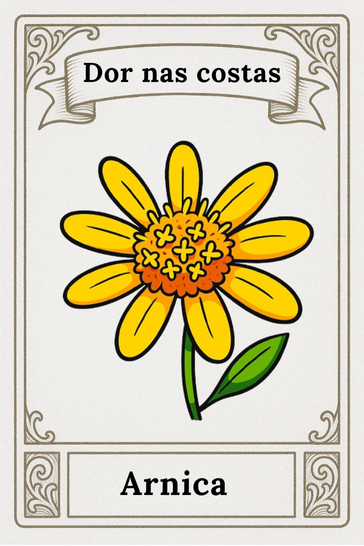
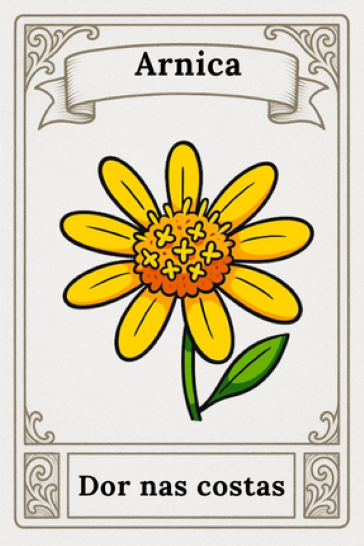
versão nova, com alterações

diff --git a/index.html b/index.html
@@ -1,12 +1,12 @@
-<!DOCTYPE html>
+<!DOCTYPE html>
 <html lang="pt-br">
 <head>
     <meta charset="UTF-8">
     <title>Botanic - O Jogo da Bruxa Herbal</title>
-    <link href="https://fonts.googleapis.com/css2?family=Merriweather:wght@400;700&family=Quicksand:wght@400;600&display=swap" rel="stylesheet">
+    <link href="https://fonts.googleapis.com/css2?family=MedievalSharp&display=swap" rel="stylesheet">
     <style>
-        body { margin: 0; background: #2d5016; display: flex; justify-content: center; align-items: center; height: 100vh; overflow: hidden; }
-        #game-container { border-radius: 15px; box-shadow: 0 10px 30px rgba(0,0,0,0.4); border: 3px solid #8a6d3b; }
+        body { margin: 0; background: #000000; display: flex; justify-content: center; align-items: center; min-height: 100vh; overflow: hidden; font-family: 'MedievalSharp', fantasy; }
+        #game-container { width: 100vw; height: 100vh; overflow: hidden; }
     </style>
 </head>
 <body>
@@ -16,29 +16,39 @@
     <script src="https://cdn.jsdelivr.net/npm/phaser@3.55.2/dist/phaser.js"></script>
 
     <script>
+        const GAME_WIDTH = 1920;
+        const GAME_HEIGHT = 1080;
+        const CENTER_X = GAME_WIDTH / 2;
+        const CENTER_Y = GAME_HEIGHT / 2;
+        const GAME_FONT = 'MedievalSharp, fantasy';
+        const GOLD = '#ffd86b';
+        const DARK_GOLD = '#d4af37';
+        const BROWN_STROKE = '#5d4037';
+        const DARK_PANEL = 0x1f1114;
+
         // Dados das Ervas
         const ERVAS_DATA = [
             {nome:'cabacinha', imagem:'cabacinha.png', cura:'sinusite', descricao:'Alivia sinusite'},
-            {nome:'erva_doce', imagem:'erva_doce.png', cura:'colica', descricao:'Alivia cólicas'},
+            {nome:'erva_doce', imagem:'erva_doce.png', cura:'colica', descricao:'Alivia cÃ³licas'},
             {nome:'babosa', imagem:'babosa.png', cura:'queloides', descricao:'Trata queloides'},
             {nome:'gengibre', imagem:'gengibre.png', cura:'tosse', descricao:'Combate tosse'},
             {nome:'arnica', imagem:'arnica.png', cura:'dor_costas', descricao:'Cura Dor nas Costas'},
-            {nome:'romã', imagem:'roma.png', cura:'dor_garganta', descricao:'Trata dor de garganta'},
+            {nome:'romÃ£', imagem:'roma.png', cura:'dor_garganta', descricao:'Trata dor de garganta'},
             {nome:'boldo', imagem:'boldo.png', cura:'enjoo', descricao:'Alivia enjoos'},
-            {nome:'cidreira', imagem:'cidreira.png', cura:'insonia', descricao:'Combate insônia'},
-            {nome:'vinagreira', imagem:'vinagreira.png', cura:'irritacao', descricao:'Trata irritações'}
+            {nome:'cidreira', imagem:'cidreira.png', cura:'insonia', descricao:'Combate insÃ´nia'},
+            {nome:'vinagreira', imagem:'vinagreira.png', cura:'irritacao', descricao:'Trata irritaÃ§Ãµes'}
         ];
 
         // Dados dos Problemas/Pacientes
         const PROBLEMAS_DATA = [
             {nome:'sinusite', imagem:'sinusite.png', curaNecessaria:'sinusite', descricao:'Paciente com sinusite'},
-            {nome:'colica', imagem:'colica.png', curaNecessaria:'colica', descricao:'Paciente com cólica'},
+            {nome:'colica', imagem:'colica.png', curaNecessaria:'colica', descricao:'Paciente com cÃ³lica'},
             {nome:'queloides', imagem:'queloides.png', curaNecessaria:'queloides', descricao:'Paciente com queloides'},
             {nome:'tosse', imagem:'tosse.png', curaNecessaria:'tosse', descricao:'Paciente com tosse'},
             {nome:'dor_costas', imagem:'dor_costas.png', curaNecessaria:'dor_costas', descricao:'Paciente com Dor nas Costas'},
             {nome:'dor_garganta', imagem:'dor_garganta.png', curaNecessaria:'dor_garganta', descricao:'Paciente com dor de garganta'},
             {nome:'enjoo', imagem:'enjoo.png', curaNecessaria:'enjoo', descricao:'Paciente enjoado'},
-            {nome:'insonia', imagem:'insonia.png', curaNecessaria:'insonia', descricao:'Paciente com insônia'},
+            {nome:'insonia', imagem:'insonia.png', curaNecessaria:'insonia', descricao:'Paciente com insÃ´nia'},
             {nome:'irritacao', imagem:'irritado.png', curaNecessaria:'irritacao', descricao:'Paciente irritado'}
         ];
 
@@ -47,32 +57,38 @@
             constructor() { super('tESTE'); }
             
             preload() {
-                // Carregamento da imagem da primeira tela e do botão
+                // Carregamento da imagem da primeira tela
                 this.load.image('tela_inicial', './assets/StartScene.png');
-                this.load.image('btn-normal', './assets/button.png');
             }
             
             create() {
                 // Fundo reserva
-                this.add.rectangle(400, 300, 800, 600, 0x2d5016);
+                this.add.rectangle(CENTER_X, CENTER_Y, GAME_WIDTH, GAME_HEIGHT, 0x000000);
                 
-                // Exibição da imagem da tela inicial
-                const bg = this.add.image(400, 300, 'tela_inicial').setDisplaySize(800, 600);
+                // ExibiÃ§Ã£o da imagem da tela inicial
+                const bg = this.add.image(CENTER_X, CENTER_Y, 'tela_inicial').setDisplaySize(GAME_WIDTH, GAME_HEIGHT);
                 
-                // Título
-                this.add.text(400, 150, 'BOTANIC', { 
-                    fontSize: '80px', fill: '#f5f5dc', fontFamily: 'Merriweather, serif', stroke: '#5d4037', strokeThickness: 8 
-                }).setOrigin(0.5);
-                
-                // Botão e interação
-                const btn = this.add.image(400, 450, 'btn-normal').setScale(0.5).setInteractive({ useHandCursor: true });
-                const btnText = this.add.text(400, 450, 'INICIAR JOGO', { 
-                    fontSize: '24px', fill: '#ffffff' 
-                }).setOrigin(0.5);
+                // Texto de interaÃ§Ã£o
+                const btnText = this.add.text(CENTER_X, 930, 'iniciar jogo', { 
+                    fontSize: '64px',
+                    fill: GOLD,
+                    fontFamily: GAME_FONT,
+                    stroke: BROWN_STROKE,
+                    strokeThickness: 5
+                }).setOrigin(0.5).setInteractive({ useHandCursor: true });
+
+                this.tweens.add({
+                    targets: btnText,
+                    alpha: 0.55,
+                    scale: 1.06,
+                    duration: 850,
+                    ease: 'Sine.easeInOut',
+                    yoyo: true,
+                    repeat: -1
+                });
                 
                 // Comando para iniciar a cena do jogo
-                btn.on('pointerdown', () => this.scene.start('GameScene'));
-                btnText.setInteractive({ useHandCursor: true }).on('pointerdown', () => this.scene.start('GameScene'));
+                btnText.on('pointerdown', () => this.scene.start('GameScene'));
             }
         }
 
@@ -93,26 +109,26 @@
                 const basePath = 'assets/';
                 PROBLEMAS_DATA.forEach(p => this.load.image(p.nome, basePath + p.imagem));
                 ERVAS_DATA.forEach(e => this.load.image(e.nome, basePath + e.imagem));
-                this.load.image('fundo_tabuleiro', basePath + 'fundo_tabuleiro.png');
+                this.load.image('fundo_tela', basePath + 'fundo_tela.png');
+                this.load.image('bruxa', basePath + 'bruxa.png');
+                this.load.image('icone_pontuacao', basePath + 'PONTUACAO.png');
+                this.load.image('icone_vida', basePath + 'VIDA.png');
+                this.load.image('icone_tempo', basePath + 'TEMPO.png');
             }
             
             create() {
-                this.add.image(400, 300, 'fundo_tabuleiro').setDisplaySize(800, 600);
+                this.add.image(CENTER_X, CENTER_Y, 'fundo_tela').setDisplaySize(GAME_WIDTH, GAME_HEIGHT);
                 
-                // Interface de Texto
-                this.scoreText = this.add.text(650, 20, 'Pontuação: ' + this.pontuacao, { fontSize: '16px', fill: '#f5f5dc' });
-                this.vidasText = this.add.text(650, 40, 'Vidas: ' + this.vidas, { fontSize: '16px', fill: '#d4a76a' });
-                this.tempoText = this.add.text(650, 60, 'Tempo: ' + this.tempoRestante, { fontSize: '16px', fill: '#a5d6a7' });
+                this.add.rectangle(CENTER_X, CENTER_Y, GAME_WIDTH, GAME_HEIGHT, 0x000000, 0.14);
+                this.add.image(1510, 520, 'bruxa').setScale(0.42).setDepth(0);
+                this.criarInterfaceFixa();
 
-                // Lógica de Drag (Arraste)
+                // LÃ³gica de Drag (Arraste)
                 this.input.on('drag', (pointer, gameObject, dragX, dragY) => {
                     if (!this.podeJogar) return;
+                    gameObject.setDepth(20);
                     gameObject.x = dragX; 
                     gameObject.y = dragY;
-                    if (gameObject.data) {
-                        gameObject.data.get('text').x = dragX;
-                        gameObject.data.get('descText').x = dragX;
-                    }
                 });
 
                 this.input.on('drop', this.handleCardDrop, this);
@@ -122,9 +138,62 @@
                 this.timerEvent = this.time.addEvent({ delay: 1000, callback: this.atualizarTempo, callbackScope: this, loop: true });
             }
 
+            criarPainel(x, y, largura, altura, cor, alpha, borda = 0xc7923e) {
+                const painel = this.add.graphics();
+                painel.fillStyle(cor, alpha);
+                painel.lineStyle(4, borda, 1);
+                painel.fillRoundedRect(x - largura / 2, y - altura / 2, largura, altura, 14);
+                painel.strokeRoundedRect(x - largura / 2, y - altura / 2, largura, altura, 14);
+                return painel;
+            }
+
+            criarInterfaceFixa() {
+                this.criarPainel(178, 74, 300, 96, DARK_PANEL, 0.9);
+                this.criarPainel(178, 184, 300, 96, DARK_PANEL, 0.9);
+                this.criarPainel(178, 294, 300, 96, DARK_PANEL, 0.9);
+
+                this.estrelaPontuacao = this.add.image(72, 80, 'icone_pontuacao').setDisplaySize(60, 86);
+                this.add.text(122, 42, 'PONTUAÇÃO', { fontSize: '21px', fill: '#ffffff', fontFamily: GAME_FONT, stroke: '#000000', strokeThickness: 2 }).setOrigin(0, 0.5);
+                this.scoreText = this.add.text(122, 80, '0', { fontSize: '44px', fill: GOLD, fontFamily: GAME_FONT, stroke: BROWN_STROKE, strokeThickness: 3 }).setOrigin(0, 0.5);
+
+                this.vidaIcons = [];
+                this.add.image(66, 184, 'icone_vida').setDisplaySize(48, 44);
+                this.add.text(122, 150, 'VIDAS', { fontSize: '21px', fill: '#ffffff', fontFamily: GAME_FONT, stroke: '#000000', strokeThickness: 2 }).setOrigin(0, 0.5);
+                for (let i = 0; i < 3; i++) {
+                    this.vidaIcons.push(this.add.image(124 + i * 58, 192, 'icone_vida').setDisplaySize(46, 42));
+                }
+
+                this.add.image(74, 304, 'icone_tempo').setDisplaySize(34, 66);
+                this.add.text(122, 260, 'TEMPO', { fontSize: '21px', fill: '#ffffff', fontFamily: GAME_FONT, stroke: '#000000', strokeThickness: 2 }).setOrigin(0, 0.5);
+                this.tempoText = this.add.text(122, 304, this.tempoRestante + ' s', { fontSize: '44px', fill: GOLD, fontFamily: GAME_FONT, stroke: BROWN_STROKE, strokeThickness: 3 }).setOrigin(0, 0.5);
+            }
+
+            atualizarVidasHud() {
+                this.vidaIcons.forEach((icone, index) => {
+                    icone.setVisible(index < this.vidas);
+                });
+            }
+
+            animarEstrelaPontuacao() {
+                this.tweens.add({
+                    targets: this.estrelaPontuacao,
+                    scaleX: 1.35,
+                    scaleY: 1.35,
+                    alpha: 0.65,
+                    duration: 130,
+                    ease: 'Sine.easeOut',
+                    yoyo: true,
+                    repeat: 1,
+                    onComplete: () => {
+                        this.estrelaPontuacao.setScale(1);
+                        this.estrelaPontuacao.setAlpha(1);
+                        this.estrelaPontuacao.setDisplaySize(60, 86);
+                    }
+                });
+            }
+
             proximoProblema() {
-                if (this.pacienteSprite) this.pacienteSprite.destroy();
-                if (this.txtProb) this.txtProb.destroy();
+                if (this.pacienteCard) this.pacienteCard.destroy();
 
                 let nomeAnterior = this.problemaAtual ? this.problemaAtual.nome : null;
                 let novo;
@@ -135,19 +204,21 @@
                 this.problemaAtual = novo;
                 this.gerarMaoComCura(this.problemaAtual.curaNecessaria);
                 
-                this.pacienteSprite = this.add.sprite(150, 200, this.problemaAtual.nome).setScale(0.5);
-                this.txtProb = this.add.text(400, 350, "CURA: " + this.problemaAtual.curaNecessaria.toUpperCase(), { fontSize: '24px', fill: '#a5d6a7' }).setOrigin(0.5);
+                this.pacienteCard = this.add.container(CENTER_X - 80, 470);
+                this.pacienteCard.setDepth(4);
+                const titulo = this.add.text(0, -265, 'PACIENTE', { fontSize: '52px', fill: GOLD, fontFamily: GAME_FONT, stroke: BROWN_STROKE, strokeThickness: 5 }).setOrigin(0.5);
+                const paciente = this.add.sprite(0, -45, this.problemaAtual.nome).setScale(0.88);
+                const label = this.add.text(0, 0, '', { fontSize: '36px', fill: GOLD, fontFamily: GAME_FONT, stroke: BROWN_STROKE, strokeThickness: 4 }).setOrigin(0.5);
+                const problema = this.add.text(0, 230, this.problemaAtual.curaNecessaria.toUpperCase(), { fontSize: '58px', fill: GOLD, fontFamily: GAME_FONT, stroke: BROWN_STROKE, strokeThickness: 5 }).setOrigin(0.5);
+                this.pacienteCard.add([titulo, paciente, label, problema]);
 
-                if (!this.dropZone) this.dropZone = this.add.zone(150, 200, 200, 200).setRectangleDropZone(200, 200);
+                if (!this.dropZone) this.dropZone = this.add.zone(CENTER_X - 80, 470, 420, 560).setRectangleDropZone(420, 560);
                 this.podeJogar = true;
             }
 
             gerarMaoComCura(curaObrigatoria) {
                 this.cartasNaMao.forEach(c => {
-                    if (c.sprite) c.sprite.destroy();
-                    if (c.text) c.text.destroy();
-                    if (c.descText) c.descText.destroy();
-                    if (c.fundo) c.fundo.destroy();
+                    if (c.card) c.card.destroy();
                 });
                 this.cartasNaMao = [];
 
@@ -156,15 +227,17 @@
                 const maoTotal = Phaser.Utils.Array.Shuffle([ervaCerta, ...outras]);
 
                 maoTotal.forEach((erva, index) => {
-                    const x = 150 + index * 125, y = 500;
-                    const fundo = this.add.rectangle(x, y, 110, 150, 0x1a3310).setStrokeStyle(2, 0x8a9b6e);
-                    const sprite = this.add.sprite(x, y - 20, erva.nome).setScale(0.3).setInteractive();
-                    const txt = this.add.text(x, y + 30, erva.cura.toUpperCase(), { fontSize: '12px', fill: '#fff' }).setOrigin(0.5);
-                    const desc = this.add.text(x, y + 50, erva.descricao, { fontSize: '10px', fill: '#ccc' }).setOrigin(0.5);
+                    const x = 500 + index * 245, y = 880;
+                    const card = this.add.container(x, y);
+                    const sprite = this.add.sprite(0, 0, erva.nome).setScale(0.56);
 
-                    this.input.setDraggable(sprite);
-                    sprite.setData({ erva, text: txt, descText: desc, fundo: fundo });
-                    this.cartasNaMao.push({ sprite, text: txt, descText: desc, fundo: fundo });
+                    card.add([sprite]);
+                    card.setSize(190, 270);
+                    card.setInteractive({ useHandCursor: true });
+                    card.setDepth(5);
+                    this.input.setDraggable(card);
+                    card.setData({ erva });
+                    this.cartasNaMao.push({ card });
                 });
             }
 
@@ -174,17 +247,19 @@
 
                 if (erva.cura === this.problemaAtual.curaNecessaria) {
                     this.pontuacao += 10;
-                    this.scoreText.setText('Pontuação: ' + this.pontuacao);
+                    this.scoreText.setText(String(this.pontuacao));
+                    this.animarEstrelaPontuacao();
                     this.podeJogar = false;
                     this.time.delayedCall(500, () => this.proximoProblema());
                 } else {
                     this.vidas--;
-                    this.vidasText.setText('Vidas: ' + this.vidas);
+                    this.atualizarVidasHud();
                     if (this.vidas <= 0) {
                         this.finalizarJogo(false);
                     } else {
                         cardSprite.x = cardSprite.input.dragStartX;
                         cardSprite.y = cardSprite.input.dragStartY;
+                        cardSprite.setDepth(5);
                     }
                 }
             }
@@ -193,7 +268,7 @@
                 if (!this.podeJogar) return;
                 if (this.tempoRestante > 0) {
                     this.tempoRestante--;
-                    this.tempoText.setText('Tempo: ' + this.tempoRestante);
+                    this.tempoText.setText(this.tempoRestante + ' s');
                 } else {
                     this.finalizarJogo(this.pontuacao >= 50);
                 }
@@ -201,29 +276,32 @@
 
             finalizarJogo(vitoria) {
                 this.podeJogar = false;
-                const mensagem = vitoria ? 'VOCÊ GANHOU!' : 'VOCÊ PERDEU!';
-                const cor = vitoria ? '#00ff00' : '#ff0000';
-                const finalTxt = this.add.text(400, 300, mensagem, { 
-                    fontSize: '64px', fill: cor, stroke: '#000', strokeThickness: 8, fontFamily: 'Merriweather' 
+                const mensagem = vitoria ? 'VITÓRIA!' : 'PERDEMOS!';
+                const finalTxt = this.add.text(CENTER_X, CENTER_Y, mensagem, { 
+                    fontSize: '118px', fill: GOLD, stroke: BROWN_STROKE, strokeThickness: 10, fontFamily: GAME_FONT
                 }).setOrigin(0.5).setDepth(10);
 
                 this.time.delayedCall(3000, () => {
                     finalTxt.destroy();
                     this.pontuacao = 0; this.vidas = 3; this.tempoRestante = 30;
-                    this.scoreText.setText('Pontuação: 0');
-                    this.vidasText.setText('Vidas: 3');
-                    this.tempoText.setText('Tempo: 30');
+                    this.scoreText.setText('0');
+                    this.atualizarVidasHud();
+                    this.tempoText.setText('30 s');
                     this.proximoProblema();
                 });
             }
         }
 
-        // Configuração Global do Phaser
+        // ConfiguraÃ§Ã£o Global do Phaser
         const config = { 
             type: Phaser.AUTO, 
-            width: 800, 
-            height: 600, 
+            width: GAME_WIDTH, 
+            height: GAME_HEIGHT, 
             parent: 'game-container', 
+            scale: {
+                mode: Phaser.Scale.FIT,
+                autoCenter: Phaser.Scale.CENTER_BOTH
+            },
             scene: [StartScene, GameScene] 
         };
         
@@ -231,3 +309,4 @@
     </script>
 </body>
 </html>
+
